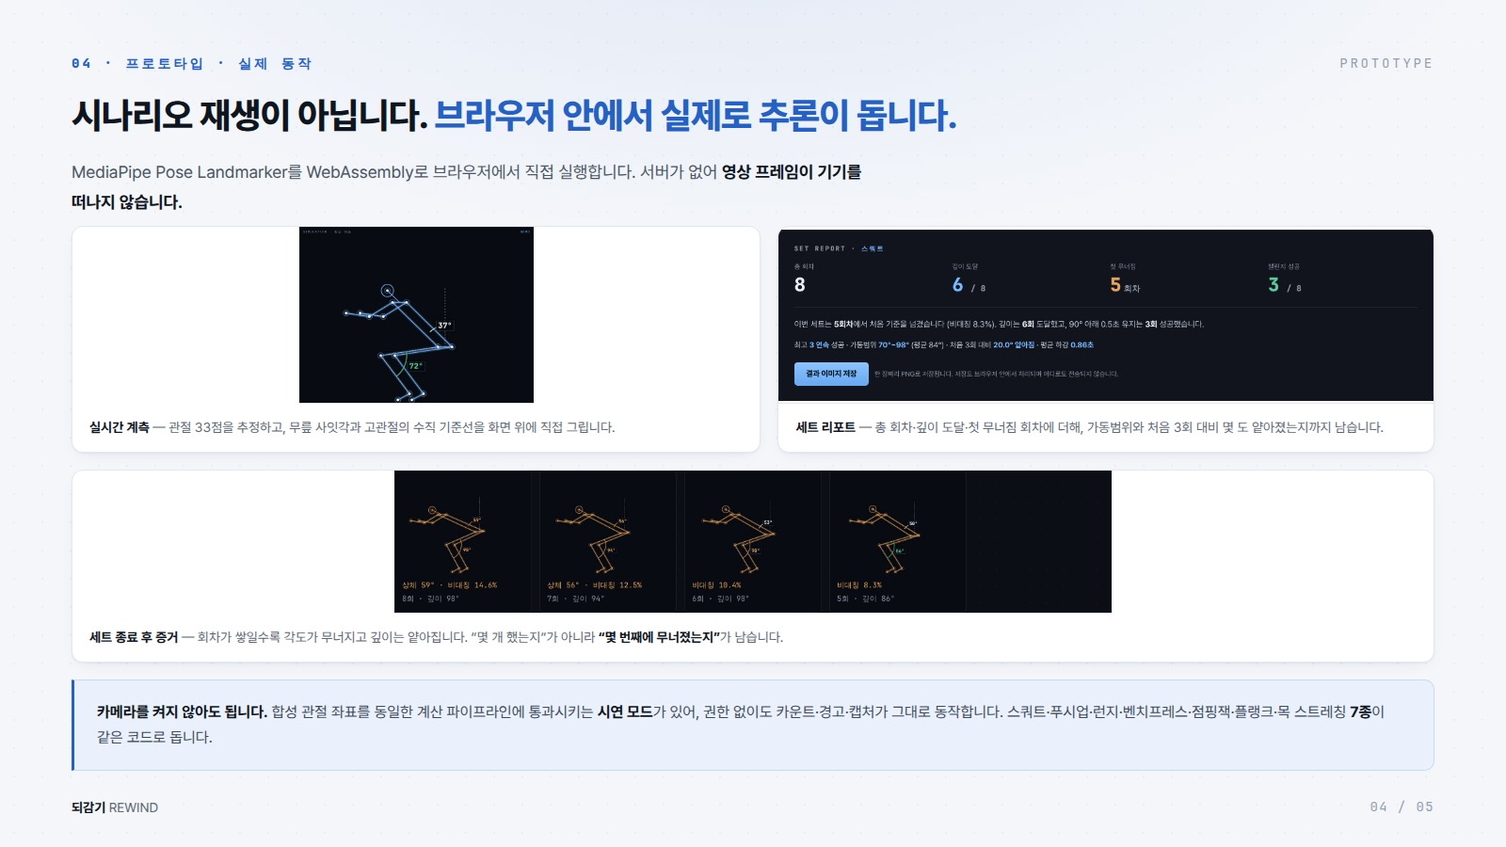
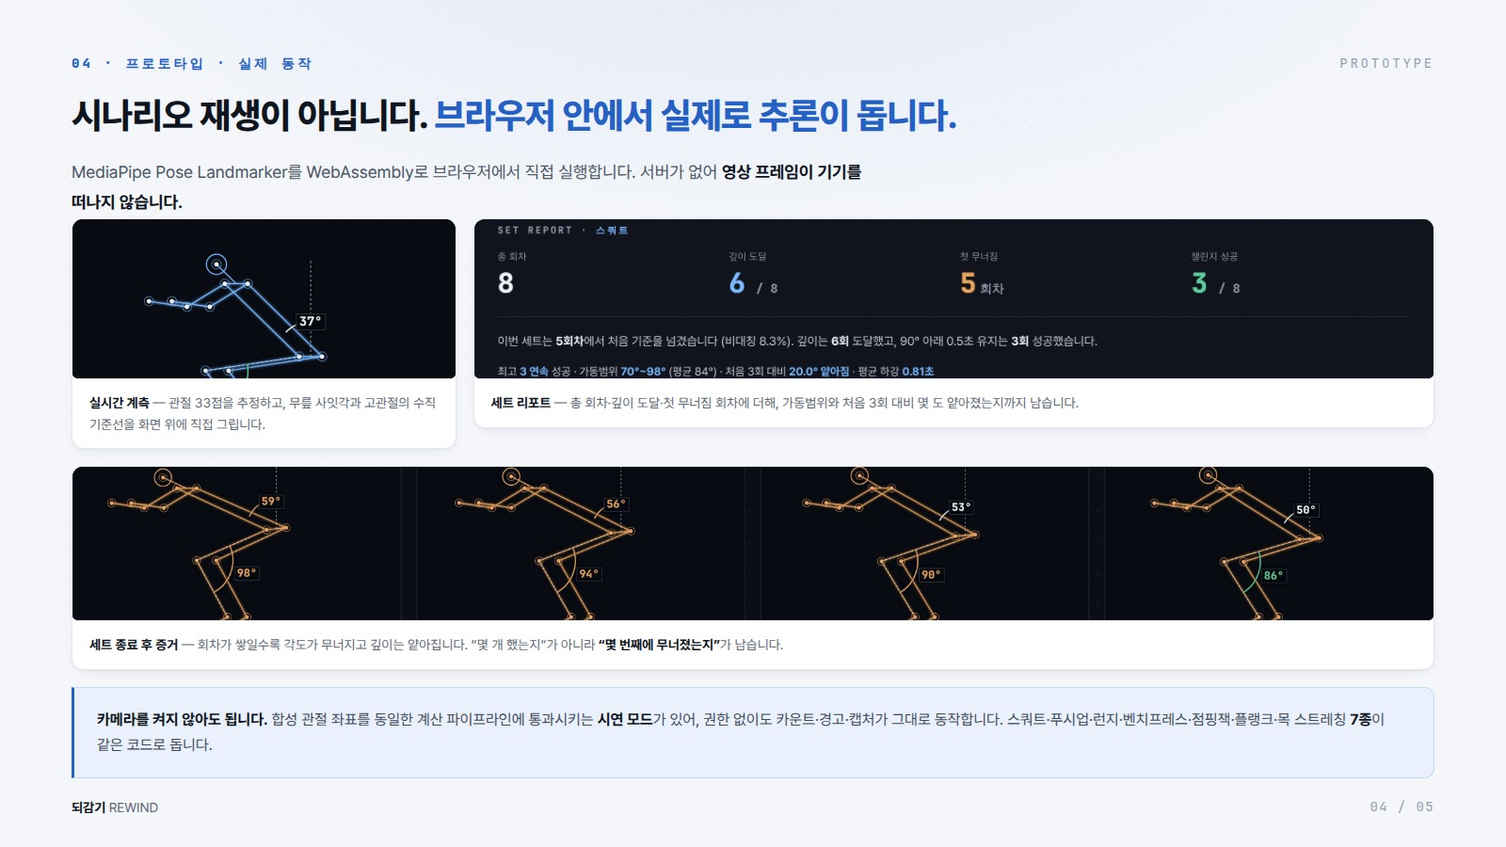
제출물: 인스타 피드 이미지 생성 · 소개서 4장 여백 수정 · 게시글 문구 재작성
- sns/인스타_피드_1080.jpg (1080x1080) 신규. 헤드라인 + 실제 앱 화면(무너진
  순간이 잡힌 프레임) + 회차별 각도 스트립 + 주소. 소개서와 같은 라이트 팔레트.
  이 컨테이너에는 한글 폰트가 없어 Pretendard부터 설치하고 렌더했다
  (안 하면 한글이 중국어 폰트로 그려진다).
- 소개서 4장: 이미지를 height 고정 + 가운데 정렬로 넣어 좌우에 흰 여백이
  크게 남아 있었다. width:100% + object-fit:cover로 패널을 채우도록 수정.
  a_shots.png도 다시 뽑았다 — 캡처 그리드를 4열로 바꾸기 전 이미지라
  오른쪽 한 칸이 비어 있었다. 5장 모두 900px 이내·잘린 글자 없음 재확인.
- 게시글 본문과 인스타 캡션을 사람이 쓴 톤으로 다시 썼다. 이모지 섹션 머리글
  (📍🧭🌱)과 문장마다 붙던 느낌표를 걷어내고, 대구 반복과 과한 병렬 구조를
  풀었다. 기술 내용은 그대로 두되 설명 순서를 자연스럽게 바꿨다.

Claude-Session: https://claude.ai/code/session_019sxzSbM2XeYMZL1RYkfEDt

diff --git a/sns/ig_card.html b/sns/ig_card.html
@@ -1,0 +1,88 @@
+<!doctype html><html lang="ko"><head><meta charset="utf-8">
+<style>
+:root{
+  --bg:#F4F6FA; --surface:#FFFFFF; --ink:#0F151E; --muted:#5C6675;
+  --accent:#2560C4; --accent-soft:#EAF1FC; --warn:#A85614; --warn-soft:#FBF0E4;
+  --ok:#147350; --ok-soft:#E8F4EE; --line:#E2E8F1;
+  --sans:Pretendard,'Apple SD Gothic Neo','Malgun Gothic',sans-serif;
+}
+*{margin:0;padding:0;box-sizing:border-box}
+body{width:1080px;height:1080px;background:var(--bg);font-family:var(--sans);
+  color:var(--ink);word-break:keep-all;-webkit-font-smoothing:antialiased}
+.card{width:1080px;height:1080px;padding:58px 60px 52px;display:flex;flex-direction:column}
+.top{display:flex;align-items:center;justify-content:space-between;margin-bottom:40px}
+.brand{display:flex;align-items:baseline;gap:12px}
+.brand b{font-size:34px;font-weight:800;letter-spacing:-.02em}
+.brand span{font-size:19px;color:var(--muted);font-weight:500;letter-spacing:-.01em;
+  padding-left:13px;border-left:1px solid var(--line)}
+.chip{font-size:17px;font-weight:600;color:var(--accent);background:var(--accent-soft);
+  padding:9px 17px;border-radius:999px;letter-spacing:-.01em}
+h1{font-size:56px;line-height:1.28;letter-spacing:-.028em;font-weight:800}
+h1 .g{color:var(--muted);font-weight:700}
+.sub{margin-top:24px;font-size:24px;line-height:1.6;color:var(--muted);
+  letter-spacing:-.016em;max-width:830px;font-weight:500}
+.sub b{color:var(--ink);font-weight:700}
+.shot{margin-top:30px;position:relative;height:344px;border-radius:18px;overflow:hidden;
+  border:1px solid var(--line);background:#0B0E14}
+.shot img{width:100%;height:100%;object-fit:cover;object-position:46% 40%;display:block}
+.shot .cap{position:absolute;left:0;right:0;bottom:0;padding:34px 24px 16px;
+  background:linear-gradient(transparent,rgba(8,11,17,.92) 52%);
+  display:flex;align-items:baseline;gap:12px}
+.shot .cap b{font-size:20px;font-weight:700;color:#F6C489;letter-spacing:-.014em}
+.shot .cap span{font-size:18px;color:#B9C2CF;font-weight:500;letter-spacing:-.012em}
+.strip{margin-top:22px;background:var(--surface);border:1px solid var(--line);
+  border-radius:18px;padding:22px 26px 22px}
+.slab{display:flex;align-items:baseline;justify-content:space-between;margin-bottom:15px}
+.slab .t{font-size:20px;font-weight:700;letter-spacing:-.014em}
+.slab .n{font-size:18px;color:var(--muted);font-weight:500;letter-spacing:-.01em}
+.cells{display:grid;grid-template-columns:repeat(8,1fr);gap:9px}
+.c{border-radius:11px;padding:11px 4px 11px;text-align:center;background:var(--ok-soft)}
+.c.w{background:var(--warn-soft)}
+.c .r{font-size:15px;color:var(--muted);font-weight:600;letter-spacing:-.01em}
+.c .v{font-size:27px;font-weight:800;margin-top:5px;color:var(--ok);letter-spacing:-.02em;
+  font-variant-numeric:tabular-nums}
+.c.w .v{color:var(--warn)}
+.c .s{font-size:14px;margin-top:6px;color:var(--ok);font-weight:600;letter-spacing:-.01em}
+.c.w .s{color:var(--warn)}
+.foot{margin-top:24px;display:flex;align-items:center;justify-content:space-between}
+.url{font-size:25px;font-weight:700;color:var(--accent);letter-spacing:-.012em}
+.tagline{font-size:19px;color:var(--muted);font-weight:500;letter-spacing:-.012em}
+</style></head><body>
+<div class="card">
+  <div class="top">
+    <div class="brand"><b>되감기</b><span>AI 자세 트레이너</span></div>
+    <div class="chip">제1회 일상뒤집기 AI 어플 아이디어 공모전</div>
+  </div>
+
+  <h1>집에서 운동할 때,<br><span class="g">내 자세 봐주는 사람이 없습니다.</span></h1>
+  <p class="sub">자세가 무너지는 건 힘들어서 거울 볼 여유도 없는 <b>마지막 몇 회</b>입니다.
+    되감기는 관절 각도를 매 프레임 재서 <b>그 순간만 골라 남깁니다.</b></p>
+
+  <div class="shot">
+    <img src="_app.png" alt="">
+    <div class="cap"><b>무너진 순간을 자동으로 포착</b><span>상체 51° · 무릎 103° · 6회차</span></div>
+  </div>
+
+  <div class="strip">
+    <div class="slab">
+      <span class="t">스쿼트 한 세트 · 회차별 최저 무릎 각도</span>
+      <span class="n">5회차부터 무너지기 시작</span>
+    </div>
+    <div class="cells">
+      <div class="c"><div class="r">1회</div><div class="v">70°</div><div class="s">깊이 인정</div></div>
+      <div class="c"><div class="r">2회</div><div class="v">74°</div><div class="s">깊이 인정</div></div>
+      <div class="c"><div class="r">3회</div><div class="v">78°</div><div class="s">깊이 인정</div></div>
+      <div class="c"><div class="r">4회</div><div class="v">82°</div><div class="s">깊이 인정</div></div>
+      <div class="c w"><div class="r">5회</div><div class="v">86°</div><div class="s">비대칭 8.3%</div></div>
+      <div class="c w"><div class="r">6회</div><div class="v">90°</div><div class="s">비대칭 10.4%</div></div>
+      <div class="c w"><div class="r">7회</div><div class="v">94°</div><div class="s">비대칭 12.5%</div></div>
+      <div class="c w"><div class="r">8회</div><div class="v">98°</div><div class="s">비대칭 14.6%</div></div>
+    </div>
+  </div>
+
+  <div class="foot">
+    <span class="url">ai-home-trainer.netlify.app</span>
+    <span class="tagline">설치 없이 브라우저에서 · 영상은 기기 밖으로 나가지 않습니다</span>
+  </div>
+</div>
+</body></html>

diff --git a/deck.html b/deck.html
@@ -236,13 +236,13 @@ h1 .hi,h2 .hi{color:var(--accent)}
     <p class="lead">MediaPipe Pose Landmarker를 WebAssembly로 브라우저에서 직접 실행합니다. 서버가 없어 <b>영상 프레임이 기기를 떠나지 않습니다.</b></p>
   </div>
   <div class="grow" style="gap:18px">
-    <div style="display:grid;grid-template-columns:1.05fr 1fr;gap:18px">
-      <div class="fig"><img src="a_live.png" alt="실시간 관절 추정 화면" style="height:188px;width:auto;max-width:100%;margin:0 auto;object-fit:contain;background:transparent">
+    <div style="display:grid;grid-template-columns:0.40fr 1fr;gap:18px;align-items:start">
+      <div class="fig"><img src="a_live.png" alt="실시간 관절 추정 화면" style="width:100%;height:170px;display:block;border-radius:6px;object-fit:cover;object-position:50% 46%">
         <div class="cap"><b>실시간 계측</b> — 관절 33점을 추정하고, 무릎 사잇각과 고관절의 수직 기준선을 화면 위에 직접 그립니다.</div></div>
-      <div class="fig"><img src="a_report.png" alt="세트 리포트" style="height:188px;width:auto;max-width:100%;margin:0 auto;object-fit:contain;background:transparent">
+      <div class="fig"><img src="a_report.png" alt="세트 리포트" style="width:100%;height:170px;display:block;border-radius:6px;object-fit:cover;object-position:50% 18%">
         <div class="cap"><b>세트 리포트</b> — 총 회차·깊이 도달·첫 무너짐 회차에 더해, 가동범위와 처음 3회 대비 몇 도 얕아졌는지까지 남습니다.</div></div>
     </div>
-    <div class="fig"><img src="a_shots.png" alt="무너진 순간 캡처 갤러리" style="height:152px;width:auto;max-width:100%;margin:0 auto;object-fit:contain;background:transparent">
+    <div class="fig"><img src="a_shots.png" alt="무너진 순간 캡처 갤러리" style="width:100%;height:164px;display:block;border-radius:6px;object-fit:cover;object-position:50% 50%">
       <div class="cap"><b>세트 종료 후 증거</b> — 회차가 쌓일수록 각도가 무너지고 깊이는 얕아집니다. “몇 개 했는지”가 아니라 <b>“몇 번째에 무너졌는지”</b>가 남습니다.</div></div>
     <div class="note">
       <div class="d" style="margin-top:0"><b style="color:#0F151E">카메라를 켜지 않아도 됩니다.</b> 합성 관절 좌표를 동일한 계산 파이프라인에 통과시키는 <b style="color:#0F151E">시연 모드</b>가 있어, 권한 없이도 카운트·경고·캡처가 그대로 동작합니다. 스쿼트·푸시업·런지·벤치프레스·점핑잭·플랭크·목 스트레칭 <b style="color:#0F151E">7종</b>이 같은 코드로 돕니다.</div>

diff --git a/되감기_제출키트_김주형.md b/되감기_제출키트_김주형.md
@@ -10,84 +10,76 @@
 [크루명/김주형] 되감기 | 홈트 자세, 무너진 순간만 잡아주는 AI 트레이너
 ```
 
-> 다른 팀은 `[캐치시트핑/최지인,신서린] 자리픽 | 빈자리를 찾는 앱에서, 내 자리를 고르는 앱으로`
-> 형식으로 썼습니다. **`[크루명/이름] 서비스명 | 한 줄 슬로건`** 입니다.
-> 크루가 없으시면 `[김주형] 되감기 | …` 로 쓰시면 됩니다.
-
-<details><summary>대안 제목</summary>
-
-```
-[김주형] 되감기 | 잘한 걸 세는 앱에서, 무너진 순간을 남기는 앱으로
-[김주형] 되감기 | 헬스장엔 봐주는 사람이 있고, 집에는 되감기가 있습니다
-```
-</details>
+> 다른 팀은 `[캐치시트핑/최지인,신서린] 자리픽 | 빈자리를 찾는 앱에서…` 형식입니다.
+> **`[크루명/이름] 서비스명 | 한 줄 슬로건`**. 크루가 없으면 `[김주형] 되감기 | …`.
 
 ---
 
 ## 2. 게시글 본문 (그대로 복사)
 
-> 아래는 **다른 팀 게시글 형식에 맞춰 다시 쓴 버전**입니다.
-> 유튜브 URL 한 자리만 채우면 그대로 붙여넣기 하실 수 있습니다.
+> 유튜브 URL 한 자리만 채우면 됩니다.
 
 ```
 매일 홈트 자세가 맞는지 확인하는 게 너무 귀찮다 → AI로 무너진 순간만 잡아 되돌려 보여주는 되감기
 
-집에서 스쿼트를 하다가, 내가 맞게 하고 있는 건지 몰라 멈칫한 적 있으신가요? 거울을 봤는데도 잘 모르겠던 경험은요?
+집에서 스쿼트를 하다가 이게 맞나 싶어서 멈칫한 적 있으신가요.
 
-헬스장에는 봐주는 사람이 있습니다. 집에는 아무도 없습니다. 유튜브를 틀어놓고 따라 해도 화면 속 트레이너는 제 자세를 볼 수 없습니다. 거울도 소용이 없습니다. 정작 자세가 무너지는 건 힘들어서 거울을 볼 여유가 없는 마지막 몇 회이기 때문입니다. 그래서 우리는 맞게 하고 있는지 모른 채 몇 주를 보내고, 어깨나 허리가 아파진 뒤에야 알게 됩니다. 홈트를 그만두는 이유는 귀찮아서가 아니라, 맞게 하고 있는지 확인할 방법이 없어서라고 생각했습니다. 되감기는 이 일상의 불편을 AI로 뒤집어, 운동하는 동안 관절 각도를 대신 재고 자세가 무너진 순간만 골라 남겨 주는 AI 자세 트레이너입니다.
+헬스장에는 봐주는 사람이 있는데 집에는 없습니다. 유튜브를 따라 해도 화면 속 트레이너는 제 자세를 볼 수 없고, 거울을 봐도 잘 모르겠습니다. 생각해보면 자세가 무너지는 건 힘들어서 거울 볼 여유가 없는 마지막 몇 회입니다. 정작 확인이 필요한 구간을 아무도 못 보는 셈입니다. 홈트를 그만두는 게 귀찮아서가 아니라 맞게 하고 있는지 알 방법이 없어서일 수도 있겠다 싶었습니다.
 
-📍 '되감기'는 어떤 서비스인가요?
+그래서 만든 것이 되감기입니다.
 
-되감기는 웹캠 앞에서 운동하는 동안 전신 관절 33점을 매 프레임 추정하고, 세 개의 각도를 계산합니다.
 
-· 무릎 각도 — 고관절·무릎·발목이 이루는 각. 90° 이하로 내려가야 깊이를 인정합니다
-· 상체 기울기 — 어깨·고관절 선이 수직에서 벗어난 각. 55°를 넘으면 허리로 무게가 옮겨간 신호로 봅니다
-· 좌우 비대칭 — 양쪽 골반 높이차를 어깨너비로 나눈 비율. 8%를 넘으면 한쪽으로 쏠린 것으로 봅니다
+■ 무엇을 하나요
 
-기준을 넘긴 프레임은 자동으로 저장됩니다. 세트가 끝나면 "8회차 · 상체 59° · 깊이 98°"처럼 몇 번째에 어떤 값으로 무너졌는지가 그림과 숫자로 남습니다. 회차별 최저 각도가 한 줄로 늘어선 타임라인, 그리고 총 회차 · 깊이 도달 · 첫 무너짐 회차 · 가동범위와 피로도(처음 3회 대비 몇 도 얕아졌는지)를 모은 리포트가 함께 뜹니다.
+웹캠 앞에서 운동하면 관절 33점을 매 프레임 추정하고 세 가지를 잽니다.
 
-종목은 일곱 가지입니다. 스쿼트, 푸시업, 런지, 벤치프레스, 점핑잭, 플랭크, 목 스트레칭. 하체와 상체, 프리웨이트, 유산소, 버티는 운동, 스트레칭이 모두 들어갑니다. 종목이 바뀌어도 바뀌는 건 재는 3점 각도와 임계값뿐이고, 횟수 판정·캡처 규칙·리포트는 일곱 종목이 같은 코드를 씁니다. 그래서 플랭크나 스트레칭처럼 버티는 종목에서는 횟수 대신 버틴 시간이 큰 숫자로 뜹니다.
+· 무릎 각도 — 고관절·무릎·발목이 이루는 각. 90도 아래로 내려가야 깊이를 인정합니다
+· 상체 기울기 — 어깨·고관절 선이 수직에서 벗어난 각. 55도를 넘으면 허리로 무게가 옮겨간 것으로 봅니다
+· 좌우 비대칭 — 양쪽 골반 높이차를 어깨너비로 나눈 값. 8%를 넘으면 한쪽으로 쏠린 것으로 봅니다
 
-그리고 이건 미리 짜둔 화면을 재생하는 것이 아닙니다. MediaPipe Pose Landmarker를 WebAssembly로 브라우저에서 직접 실행합니다. 서버가 없어서, 운동 영상이 기기를 떠나지 않습니다. 운동 영상은 사람들이 가장 올리기 꺼려지는 데이터입니다. 되감기는 그 장벽 자체가 없습니다.
+기준을 넘긴 프레임은 자동으로 저장됩니다. 세트가 끝나면 몇 번째에 어떤 값으로 무너졌는지가 그림과 숫자로 남습니다. 회차별 최저 각도를 늘어놓은 타임라인, 첫 무너짐이 몇 회차였는지, 처음 3회에 비해 몇 도나 얕아졌는지도 함께 나옵니다. 결과는 한 장짜리 이미지로 저장할 수 있는데 이 저장도 브라우저 안에서 끝납니다.
 
-🧭 '되감기'를 직접 사용해 보세요! (30초면 충분합니다)
+종목은 스쿼트, 푸시업, 런지, 벤치프레스, 점핑잭, 플랭크, 목 스트레칭 일곱 가지입니다. 종목이 바뀌어도 바뀌는 건 재는 각도와 임계값뿐이라 횟수 판정이나 캡처 규칙, 리포트는 같은 코드를 그대로 씁니다. 플랭크나 스트레칭처럼 버티는 종목에서는 횟수 대신 버틴 시간이 큰 숫자로 뜹니다.
 
-1) 링크만 열면 됩니다. 설치도 가입도 없습니다!
-2) 카메라를 켜면 관절에 선이 얹히고 무릎 각도가 실시간으로 떠요!
-3) 카메라가 부담스러우면 「카메라 없이 시연 보기」로 20초면 전체 흐름을 봐요!
-4) 세트가 끝나면 타임라인과 「무너진 순간」 캡처가 증거로 남아요!
-5) 종목을 바꾸면 재는 각도와 게이지 이름이 함께 바뀌어요!
 
-🌱 되감기가 바꾸고 싶은 일상
+■ 미리 만든 화면을 재생하는 게 아닙니다
 
-지금까지 홈트는 "몇 개 했는지"만 세어 왔습니다. 정작 알아야 할 "몇 번째에 무너졌는지"는 아무도 알려주지 않았습니다.
+MediaPipe Pose Landmarker를 WebAssembly로 브라우저에서 직접 돌립니다. 서버가 없어서 영상이 기기 밖으로 나가지 않습니다. 운동 영상은 사람들이 가장 올리기 꺼려지는 데이터라, 이 부분이 실제로 쓸지 말지를 가른다고 봤습니다.
 
-되감기는 이 당연했던 공백을 바꾸고자 합니다. 혼자 홈트하는 직장인과 학생, 헬스장이 부담스러운 초보자, 영상이 올라가는 게 꺼려지는 사람, 무인 헬스장이나 공공 체육시설처럼 영상 저장이 곤란한 공간, 수행 정확도 점검이 필요한 보건소 낙상 예방 체조까지 이어질 수 있습니다.
+만들다 보니 이런 것도 있었습니다. 다리가 화면 밖으로 나가면 좌표는 그대로 나오는데 무릎이 177도(선 자세)로 잘못 읽혀서, 하지도 않은 횟수가 세어집니다. 그래서 신뢰도가 떨어지는 프레임은 아예 세지 않고 왜 멈췄는지 화면에 적도록 했습니다.
 
-되감기는 AI가 "알아서 판단"해 주는 서비스가 아닙니다. 무엇을 어떻게 쟀는지 화면에 숫자로 그대로 띄웁니다. 틀렸을 때 왜 그런지 설명할 수 있어야 믿고 쓸 수 있으니까요.
 
-기존 운동 앱은 잘한 것을 세어 동기를 줍니다. 되감기는 무너진 것을 남겨 다음 세트를 바꿉니다. 기록이 아니라 증거를 만듭니다.
+■ 30초면 확인하실 수 있습니다
 
-봐 주는 눈은 생기되, 영상은 어디로도 가지 않습니다. 되감기
+1) 링크만 열면 됩니다. 설치도 가입도 없습니다
+2) 카메라를 켜면 관절에 선이 얹히고 각도가 실시간으로 뜹니다
+3) 카메라가 부담스러우면 「카메라 없이 시연 보기」로 20초 만에 전체 흐름을 보실 수 있습니다
+4) 세트가 끝나면 타임라인과 캡처된 순간들이 아래에 남습니다
+5) 위쪽에서 종목을 바꾸면 재는 각도와 게이지 이름이 함께 바뀝니다
 
-🔗 프로토타입 (지금 바로 눌러보실 수 있습니다)
+
+■ 만들면서 생각한 것
+
+운동 앱은 대부분 몇 개 했는지를 셉니다. 정작 알아야 할 건 몇 번째부터 무너졌는지인데 그건 아무도 알려주지 않습니다.
+
+AI가 알아서 판단해주는 방식은 일부러 피했습니다. 무엇을 어떻게 쟀는지 화면에 숫자로 그대로 띄웁니다. 틀렸을 때 왜 그런지 설명이 안 되면 믿고 쓰기 어렵다고 생각했습니다.
+
+혼자 홈트하는 직장인과 학생, 헬스장이 부담스러운 초보자, 영상 올라가는 게 싫은 분들을 생각하며 만들었습니다. 무인 헬스장이나 공공 체육시설처럼 영상 저장이 곤란한 곳, 수행 정확도 확인이 필요한 보건소 낙상 예방 체조 같은 데로도 이어질 수 있을 것 같습니다.
+
+봐 주는 눈은 생기되, 영상은 어디로도 가지 않습니다.
+
+
+프로토타입 (지금 바로 눌러보실 수 있습니다)
 https://ai-home-trainer.netlify.app
 
-🎬 유튜브 발표영상
+유튜브 발표영상
 [여기에 유튜브 URL]
 
-📲 SNS 인증
-인스타그램 팔로우와 공모전 피드 좋아요를 완료했으며, 개인 SNS를 통해 공모전 홍보 게시글도 업로드했습니다.
+SNS 인증
+인스타그램 팔로우와 공모전 피드 좋아요를 완료했고, 개인 SNS에 홍보 게시글도 올렸습니다.
 
 #일상뒤집기 #홈그라운드 #AI공모전 #AI어플 #아이디어공모전
 ```
-
-<details><summary>기존 긴 버전 (기술 설명 중심) — 심사위원용으로 더 자세합니다</summary>
-
-기존 버전은 git 이력에 남아 있습니다. 위 버전이 다른 팀 게시글 형식에 맞고
-댓글이 붙기 쉬운 길이라 이쪽을 권합니다.
-
-</details>
 
 ---
 
@@ -110,63 +102,53 @@ https://ai-home-trainer.netlify.app
 
 ## 4. 인스타그램 홍보 피드 (개인 SNS 인증용)
 
-**올리는 법:** 사진 1장 이상 + 아래 캡션. 사진은 아무거나 되지만, 아래 셋 중 하나를 권합니다.
-① 소개서 1장(`되감기_소개서_1of5.jpg`) ② 사이트 첫 화면 스크린샷 ③ 앱의 「결과 이미지 저장」으로 뽑은 PNG
-**올린 뒤 그 화면을 캡처해서 공모전 게시글 사진 8장 중 한 장으로 씁니다.**
+**올릴 이미지:** `sns/인스타_피드_1080.jpg` (1080×1080, 정사각)
+올린 뒤 **그 화면을 캡처**해서 공모전 게시글 사진 8장 중 한 장으로 씁니다.
 
-### 캡션 A — 짧고 잘 읽히는 버전 (권장)
+### 캡션
 
 ```
-집에서 스쿼트할 때, 내 자세 봐주는 사람 없잖아요 🏋
+집에서 운동할 때 자세 봐주는 사람이 없어서, 대신 봐주는 걸 만들었습니다.
 
-정작 자세가 무너지는 건 힘들어서 거울 볼 여유도 없는 마지막 몇 회인데
-그 구간은 아무도 못 봅니다.
+자세가 무너지는 건 힘들어서 거울 볼 여유도 없는 마지막 몇 회인데
+정작 그 구간을 아무도 못 보잖아요.
 
-그래서 만들었습니다. 되감기 🔄
-웹캠 앞에서 운동하면 AI가 관절 33점을 매 프레임 재서,
-무너진 순간만 골라 사진으로 남겨줍니다.
+되감기는 웹캠 앞에서 운동하면 관절 33점을 매 프레임 재서
+기준을 넘긴 순간만 골라 사진으로 남겨줍니다.
+몇 개 했는지가 아니라 몇 번째부터 무너졌는지가 남습니다.
 
-· 스쿼트·푸시업·런지·벤치프레스·점핑잭·플랭크·목 스트레칭 7종
-· 설치도 가입도 없이 링크만 열면 끝
-· 서버가 없어서 운동 영상이 폰 밖으로 안 나갑니다
+스쿼트, 푸시업, 런지, 벤치프레스, 점핑잭, 플랭크, 목 스트레칭까지 됩니다.
+설치나 가입 없이 링크만 열면 되고, 서버가 없어서 영상은 폰 밖으로 안 나갑니다.
 
-제1회 일상뒤집기 AI 어플 아이디어 공모전 출품작입니다.
-지금 바로 눌러보실 수 있어요 👉 https://ai-home-trainer.netlify.app
+제1회 일상뒤집기 AI 어플 아이디어 공모전에 냈습니다.
+직접 눌러보실 수 있어요.
+https://ai-home-trainer.netlify.app
 
 #일상뒤집기 #홈그라운드 #AI공모전 #AI어플 #아이디어공모전
 #홈트 #홈트레이닝 #스쿼트 #자세교정 #운동기록 #AI트레이너 #온디바이스AI
 ```
 
-### 캡션 B — 더 짧은 버전 (스토리·릴스용)
+### 짧은 버전 (스토리용)
 
 ```
-집에서 운동할 때 자세 봐주는 사람 없어서
-AI가 대신 봐주는 걸 만들었어요 🔄
+집에서 운동할 때 자세 봐주는 사람이 없어서
+AI가 대신 봐주는 걸 만들었습니다.
 
 관절 33점을 매 프레임 재서
-무너진 순간만 딱 잡아줍니다.
+무너진 순간만 잡아줍니다.
 
-설치 없이 링크만 열면 되고,
-영상은 폰 밖으로 안 나가요.
+설치 없이 링크만 열면 되고
+영상은 폰 밖으로 안 나갑니다.
 
-제1회 일상뒤집기 AI 공모전 출품작 👇
+제1회 일상뒤집기 AI 공모전 출품작
 https://ai-home-trainer.netlify.app
 
 #일상뒤집기 #홈그라운드 #AI공모전 #홈트 #자세교정
 ```
 
-### 첫 줄만 바꾸고 싶을 때 (훅 후보)
-
-```
-· 스쿼트 8회 중 몇 번째부터 무너지는지 아세요?
-· 헬스장엔 봐주는 사람이 있는데, 집에는 없잖아요
-· 홈트를 그만두는 진짜 이유는 귀찮아서가 아니었습니다
-· 운동 영상 클라우드에 올리기 싫으신 분들 주목 🙋
-```
-
 ---
 
-## 4-B. SNS 인증 3종 체크
+## 4-B. SNS 인증 3종
 
 | | 무엇 | 캡처할 화면 |
 |---|---|---|
@@ -174,7 +156,7 @@ https://ai-home-trainer.netlify.app
 | ② | **공모전 피드 좋아요** | 하트가 채워진 게시물 화면 |
 | ③ | **개인 SNS 홍보 피드** | 위 캡션으로 올린 내 게시물 화면 |
 
-> 세 장 모두 있어야 가점입니다. 소개서 5장 + 이 3장 = 정확히 8장으로 꽉 찹니다.
+세 장 모두 있어야 가점입니다. 소개서 5장 + 이 3장 = 정확히 8장으로 꽉 찹니다.
 
 ---
 
